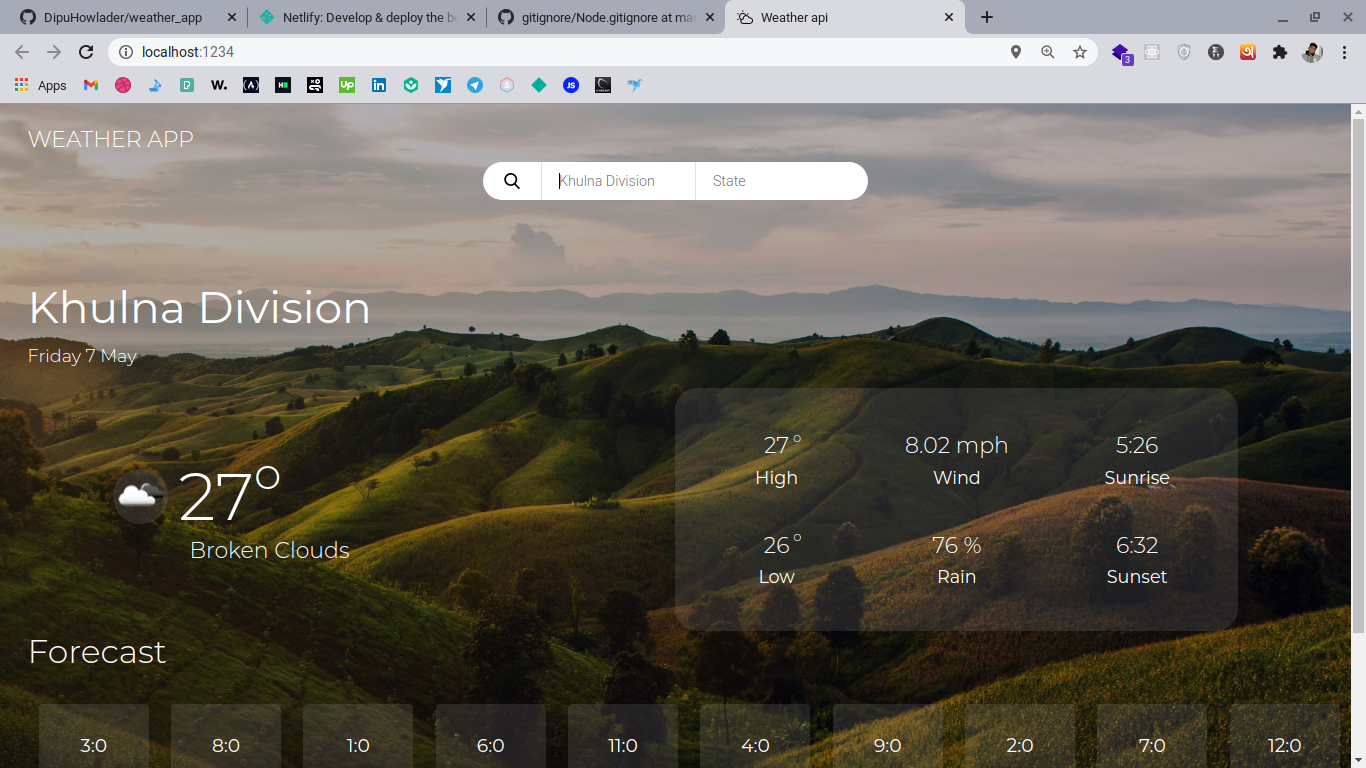
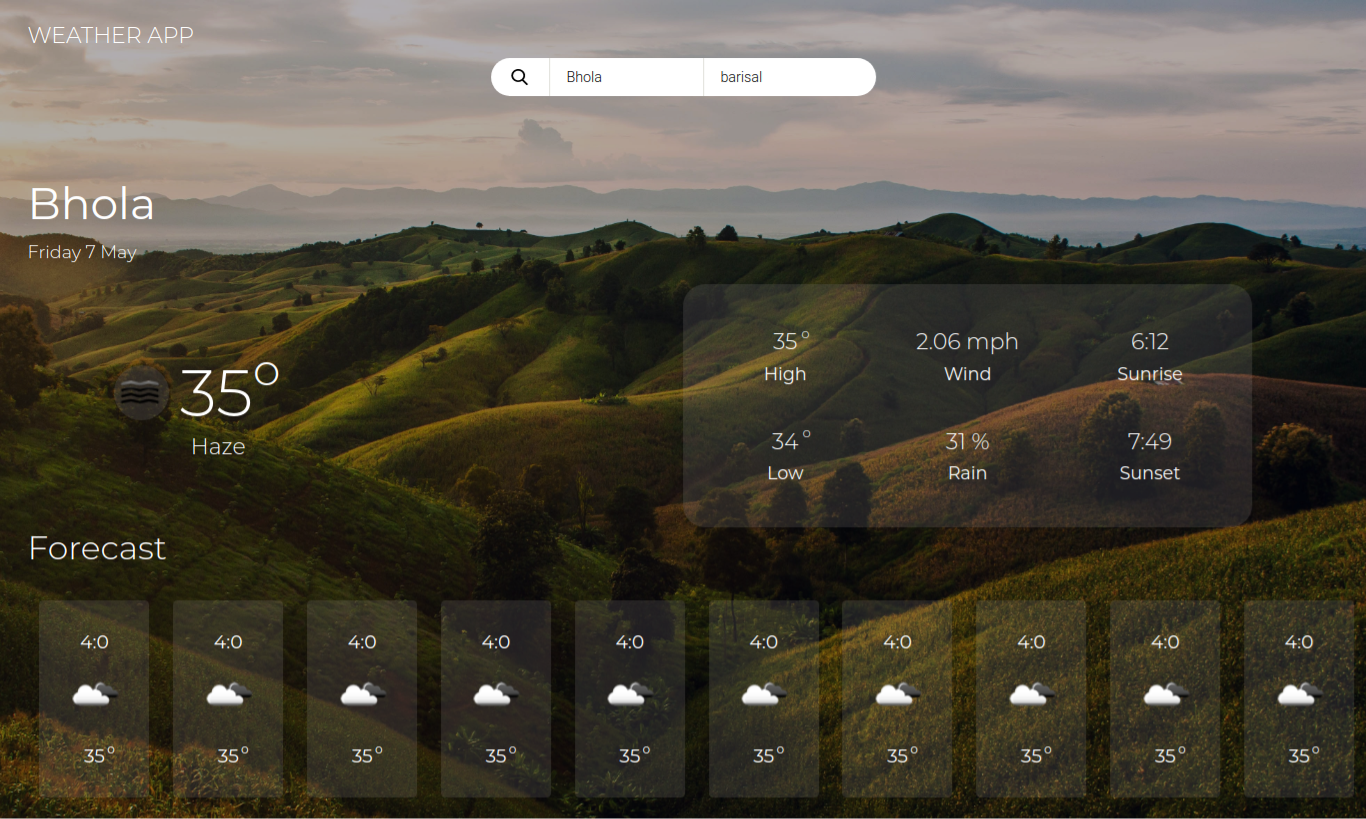
Initial

diff --git a/js/main.js b/js/main.js
@@ -1,6 +1,4 @@
 // key = 1adcda59a9b5bb90b782b20ed9d80d6e
-// https://samples.openweathermap.org/data/2.5/weather?q=London,uk&appid=439d4b804bc8187953eb36d2a8c26a02
-// // pro.openweathermap.org/data/2.5/forecast/hourly?lat={lat}&lon={lon}&appid={API key}
 
 // setting current date 
 const date = document.querySelector('.date')
@@ -31,32 +29,28 @@ const city = document.querySelector('.city');
 const overlay = document.querySelector('.overlay');
 const Cost = document.querySelectorAll('.single-cast');
 const state = document.querySelector('.state')
-let j = 0
 
 // fetch api for fordcast
 const fordcast = (lat, long) => {
-    j = 0
-    const url = `https://api.openweathermap.org/data/2.5/onecall?lat=${lat}&lon=${long}&exclude={part}&appid=1adcda59a9b5bb90b782b20ed9d80d6e`
+    const url = `https://api.openweathermap.org/data/2.5/onecall?lat=${lat}&lon=${long}&exclude={part}&appid=${key}`
     fetch(url)
         .then(response => response.json())
         .then(data => {
             Cost.forEach((element) => {
-                    const unix = (data.hourly[j].dt)
+                    const unix = (data.hourly[0].dt)
                     const fordcastData = new Date(unix * 1000)
                     const hour = fordcastData.getHours() % 12 || 12
                     const minute = fordcastData.getMinutes()
 
-                    element.querySelector('.weather img').setAttribute('src', `http://openweathermap.org/img/w/${data.hourly[j].weather[0].icon}.png`)
-                    element.querySelector('.degree').innerText = Math.ceil((data.hourly[j].temp - 273.14))
+                    element.querySelector('.weather img').setAttribute('src', `http://openweathermap.org/img/w/${data.hourly[0].weather[0].icon}.png`)
+                    element.querySelector('.degree').innerText = Math.ceil((data.hourly[0].temp - 273.14))
                     element.querySelector('.time').innerText = (hour) + ':' + minute
-                    j += 5
             })
         })
     overlay.classList.add('custom')
 }
 // getting user location through Geolocation
 const geoLocacion = () => {
-    overlay.classList.remove('custom')
     if (navigator.geolocation) {
         navigator.geolocation.getCurrentPosition(showPositon)
     }
@@ -96,10 +90,8 @@ const showPositon = (position) => {
             const iconcode = data.weather[0].icon
             icon.setAttribute('src', "http://openweathermap.org/img/w/" + iconcode + ".png")
         })
-        .catch((err) => {
-            if (err) {
-                console.err(err)
-            }
+        .catch((error) => {
+            console.error(error)
         });
     fordcast(lat, long)
 }
@@ -112,6 +104,7 @@ form.addEventListener('submit', (e) => {
     e.preventDefault();
     let city_name = document.querySelector('.city').value
     let state_name = document.querySelector('.state').value
+    
     if (city_name=='' || state_name ==''){
         return
     }
@@ -122,7 +115,7 @@ form.addEventListener('submit', (e) => {
         .then(response => response.json())
         .then(data => {
 
-            if(data.cod){
+            if(data.cod=='404'){
                 overlay.classList.remove('custom')
                 return
             }
@@ -156,9 +149,7 @@ form.addEventListener('submit', (e) => {
 
 
         }).catch((err) => {
-            if (err) {
                 console.error(err)
-            }
         })
     overlay.classList.remove('custom')
 
